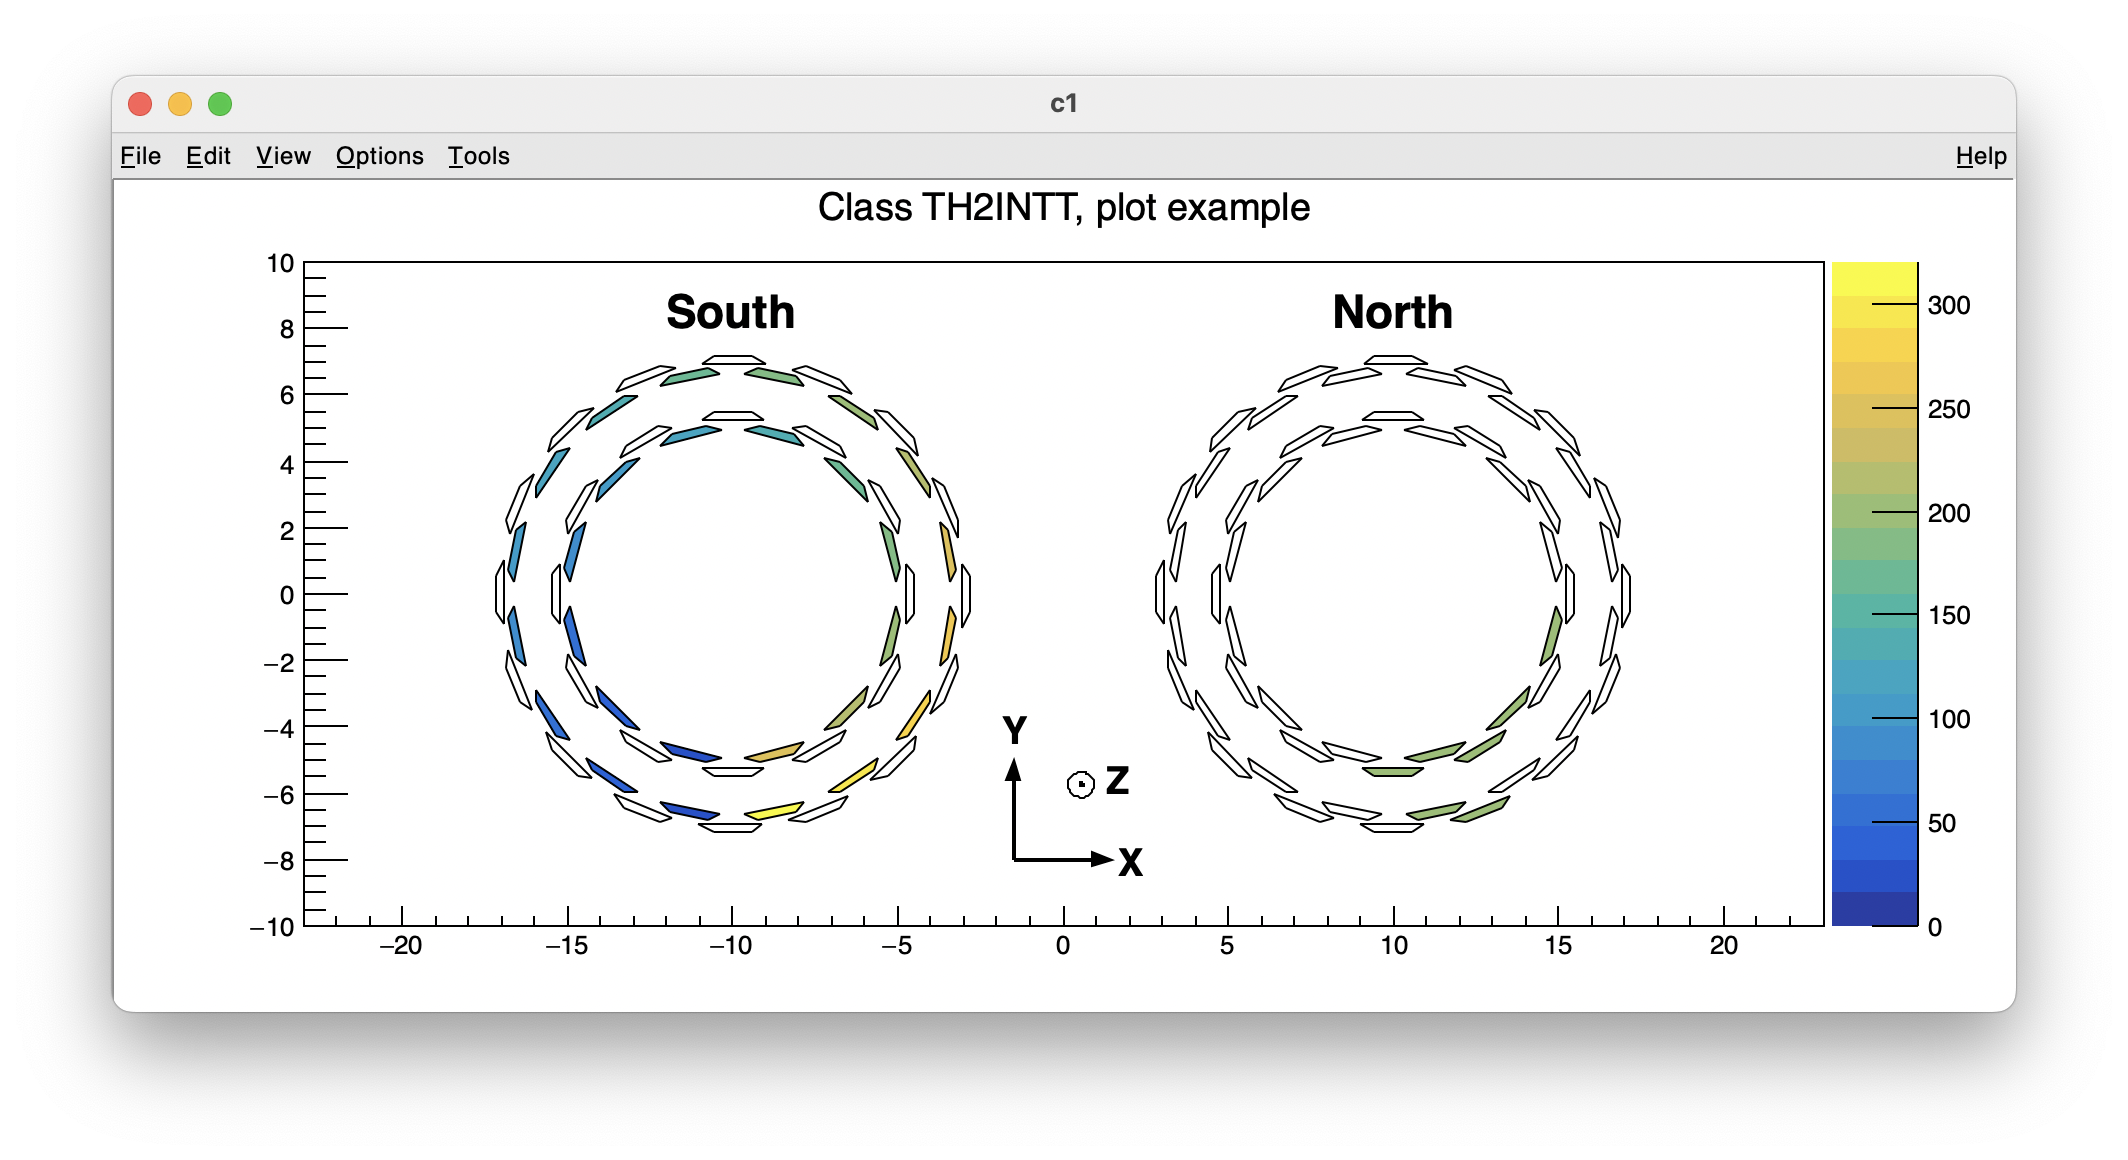
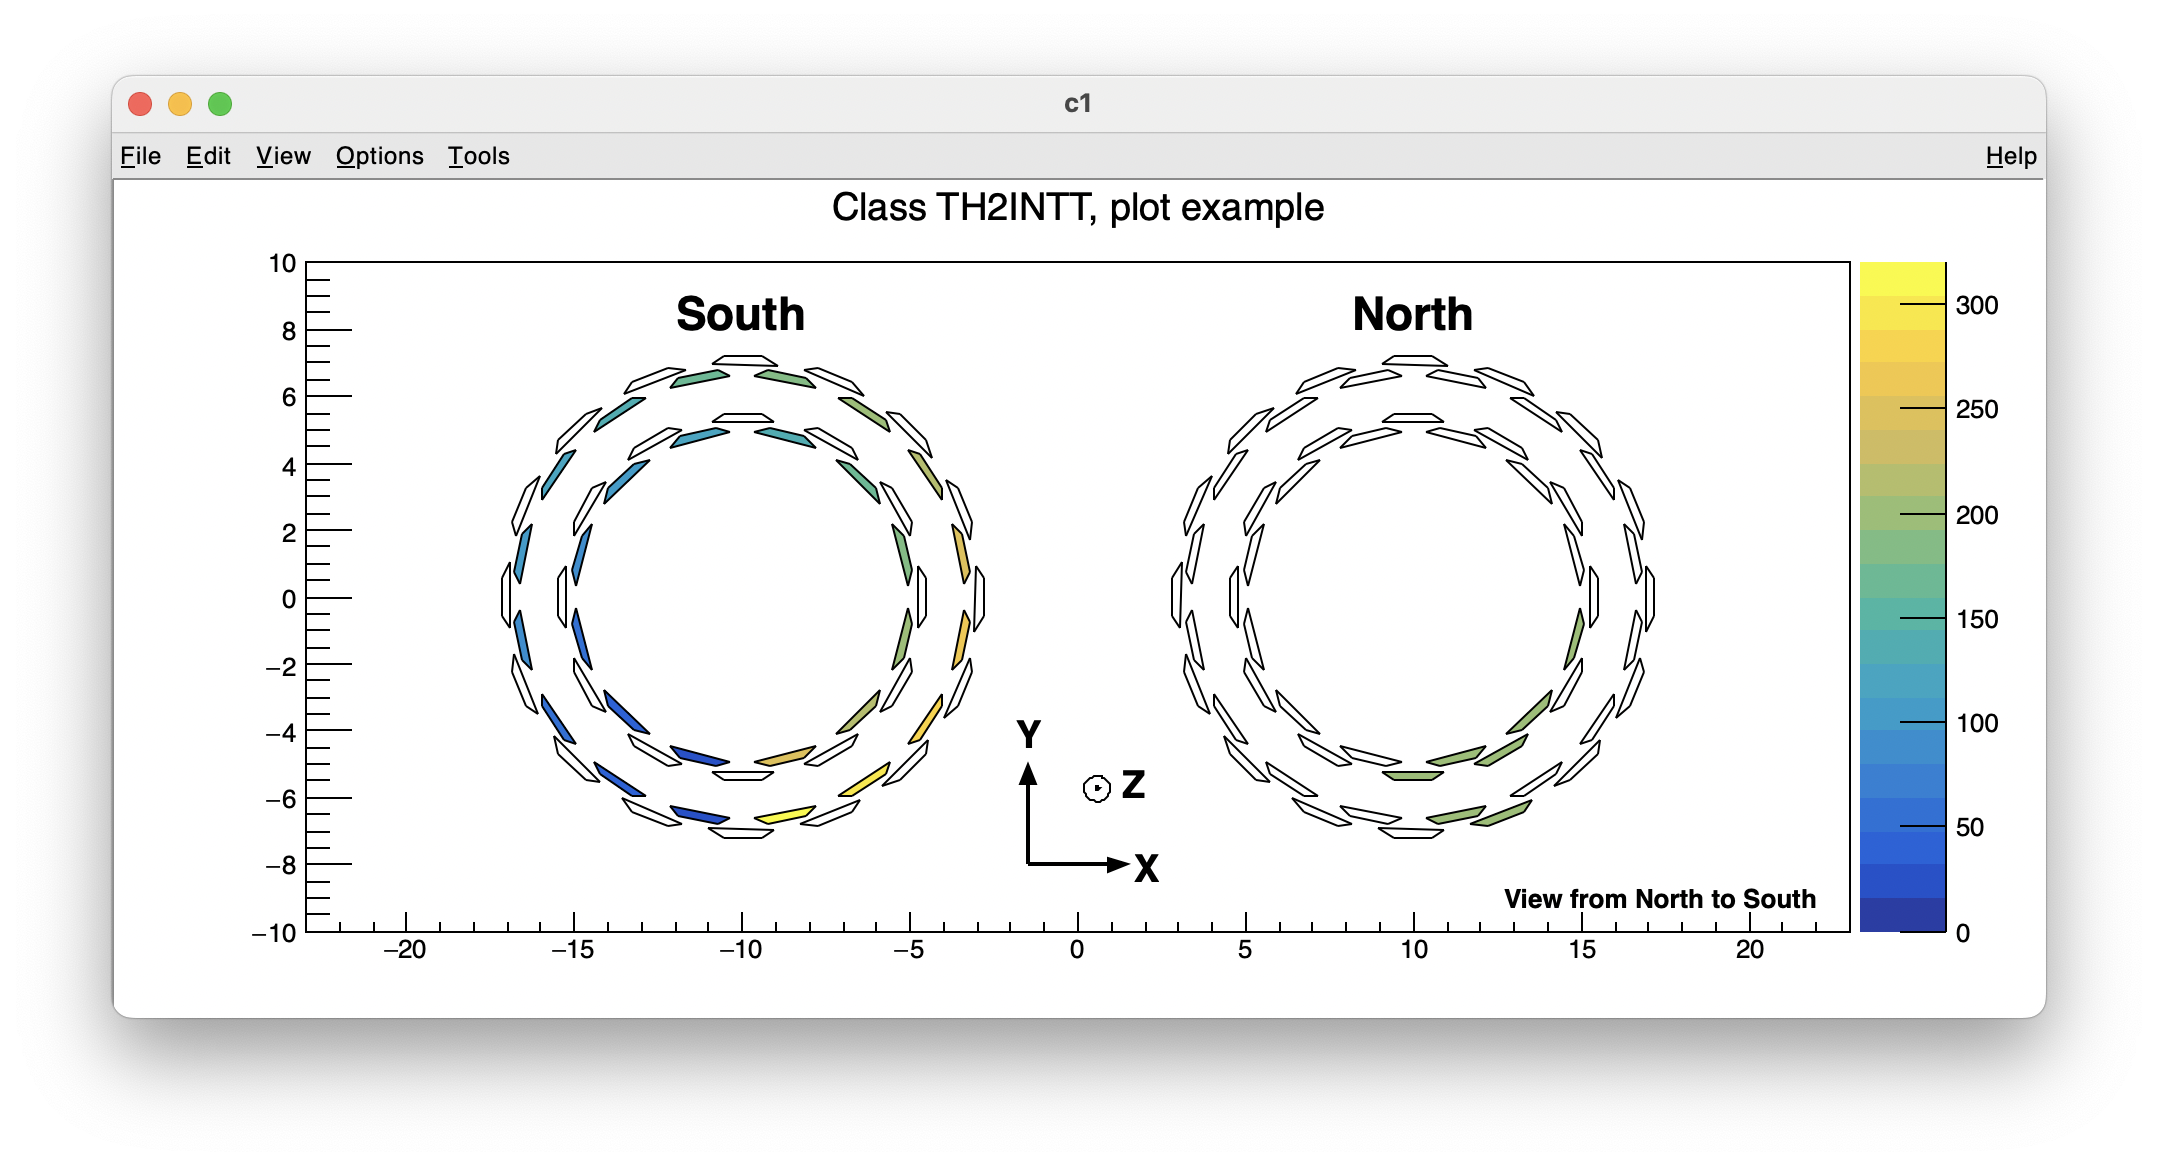
update TH2INTT

diff --git a/general_codes/CWShih/TH2INTT/TH2INTT.h b/general_codes/CWShih/TH2INTT/TH2INTT.h
@@ -445,6 +445,11 @@ class TH2INTT : public TH2Poly
             coord_text -> DrawLatex(-1.5, -4.5, "Y");
             coord_text -> DrawLatex(1, -6, "#odot Z");
 
+            TLatex *note_text = new TLatex();
+            note_text -> SetTextSize(0.035);
+            note_text -> SetTextAlign(32);
+            note_text -> DrawLatex(22, -9, "View from North to South");
+
             // side_text -> DrawLatex(0.285, 0.83, "South" );
             // side_text -> DrawLatex(0.64, 0.83, "North" );
 
